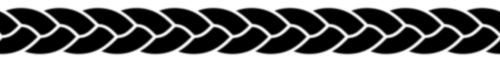
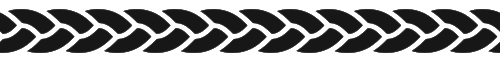
More spacing in braid image.

Changed region(s): [[0.0, 0.0923, 1.0, 0.8615]]

diff --git a/card_images.py b/card_images.py
@@ -545,14 +545,14 @@ class PerColourScheme_4Stripes_SinglesBothEnds:
 
 # Define our card scheme and visual style
 
-# scheme    = PerColourScheme_4Stripes_3Doubles
-scheme    = PerColourScheme_4Stripes_SinglesBothEnds
+scheme    = PerColourScheme_4Stripes_3Doubles
+# scheme    = PerColourScheme_4Stripes_SinglesBothEnds
 COL_COUNT = scheme.COL_COUNT
 visuals   = get_visuals(palette_nik_colourblind,
-                        [('ribbon', 'red'),
-                         ('rope',   'yellow'),
-                         ('waves',  'blue'),
-                         ('dots',   'green'),
+                        [('petals',  'red'),
+                         ('braid',   'yellow'),
+                         ('ribbon',  'blue'),
+                         ('emerald', 'green'),
                          ])
 
 # Assemble all the cards
